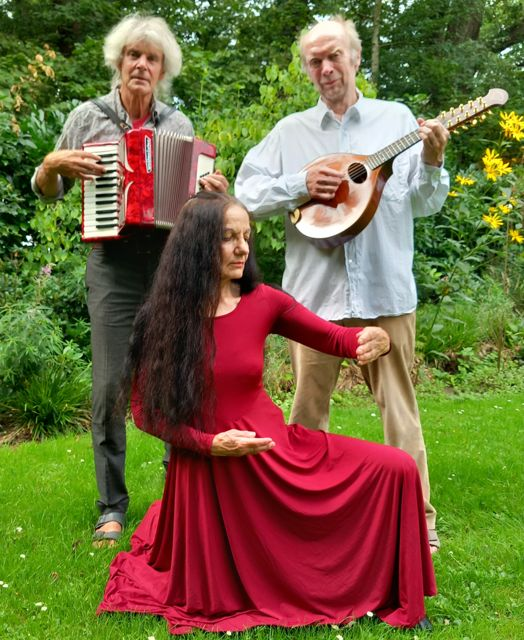
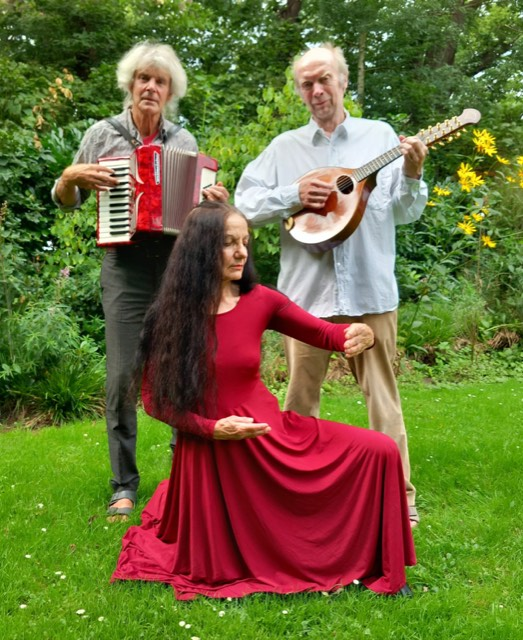
Erweitertes Foto mit Anne Heinz eingebaut
Uli hat das Gartenfoto nach oben erweitert, damit die Koepfe der beiden
Musiker nicht mehr angeschnitten sind (1453x1776 statt 1309x1600).
Fuer das Web auf 1309x1600 gerechnet, Vorschaubild der Galerie neu
erzeugt. Der Ausschnitt sitzt weiter etwas ueber der Mitte, damit im
4:3-Feld alle drei Koepfe stehen - jetzt auch in der Galerie.
Original unter Assets/2026-08-31_Erweitert_Anne-Heinz-Garten/.

Claude-Session: https://claude.ai/code/session_014QFZ63DHSQGqZuoW9yPC8P

diff --git a/css/stil.css b/css/stil.css
@@ -324,8 +324,11 @@ footer li{margin:0 0 3px}
 }
 /* 2) Schriftzug „Die Amtsbrüder“ lief auf schmalen Schirmen über den Rand */
 @media (max-width:520px){.hero h1{font-size:clamp(34px,11.5vw,52px)}}
-/* 3) Foto mit Anne Heinz: Ausschnitt nach oben, damit die Köpfe drin bleiben */
-.formation .tack.kopf-oben img{object-position:50% 12%}
+/* 3) Foto mit Anne Heinz: Uli hat das Bild am 31.08.2026 nach oben erweitert.
+   Der Ausschnitt sitzt trotzdem etwas höher als die Mitte, damit im 4:3-Feld
+   alle drei Köpfe stehen — auch in der Galerie, die dasselbe Motiv zeigt. */
+.formation .tack.kopf-oben img,
+.gallery .tack img[src*="anne-heinz-garten"]{object-position:50% 10%}
 /* 4) Musikrichtungen: ein Rahmen um die Aufzählung statt einer je Wort */
 .chips.rahmen{border:2px solid var(--frame);border-radius:12px;background:var(--paper-2);
   padding:14px 18px;gap:0 10px;align-items:baseline}
